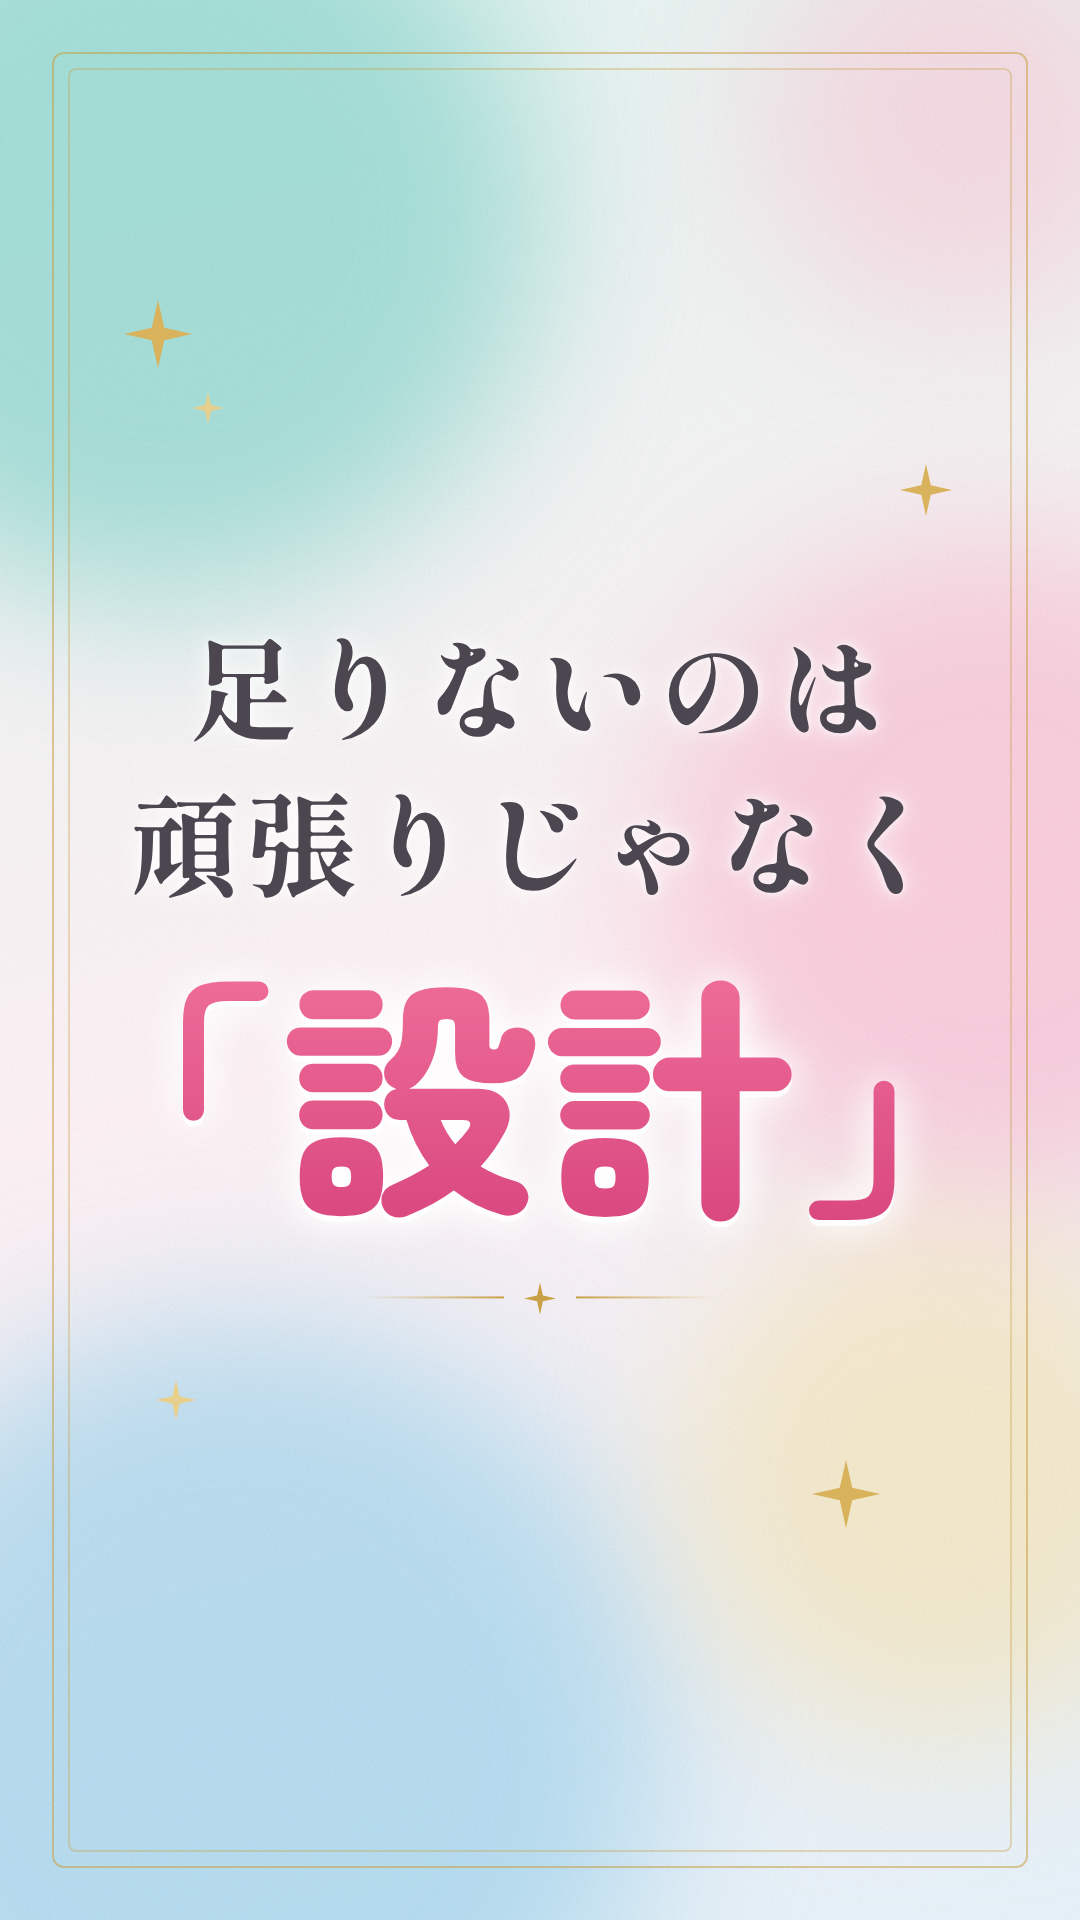
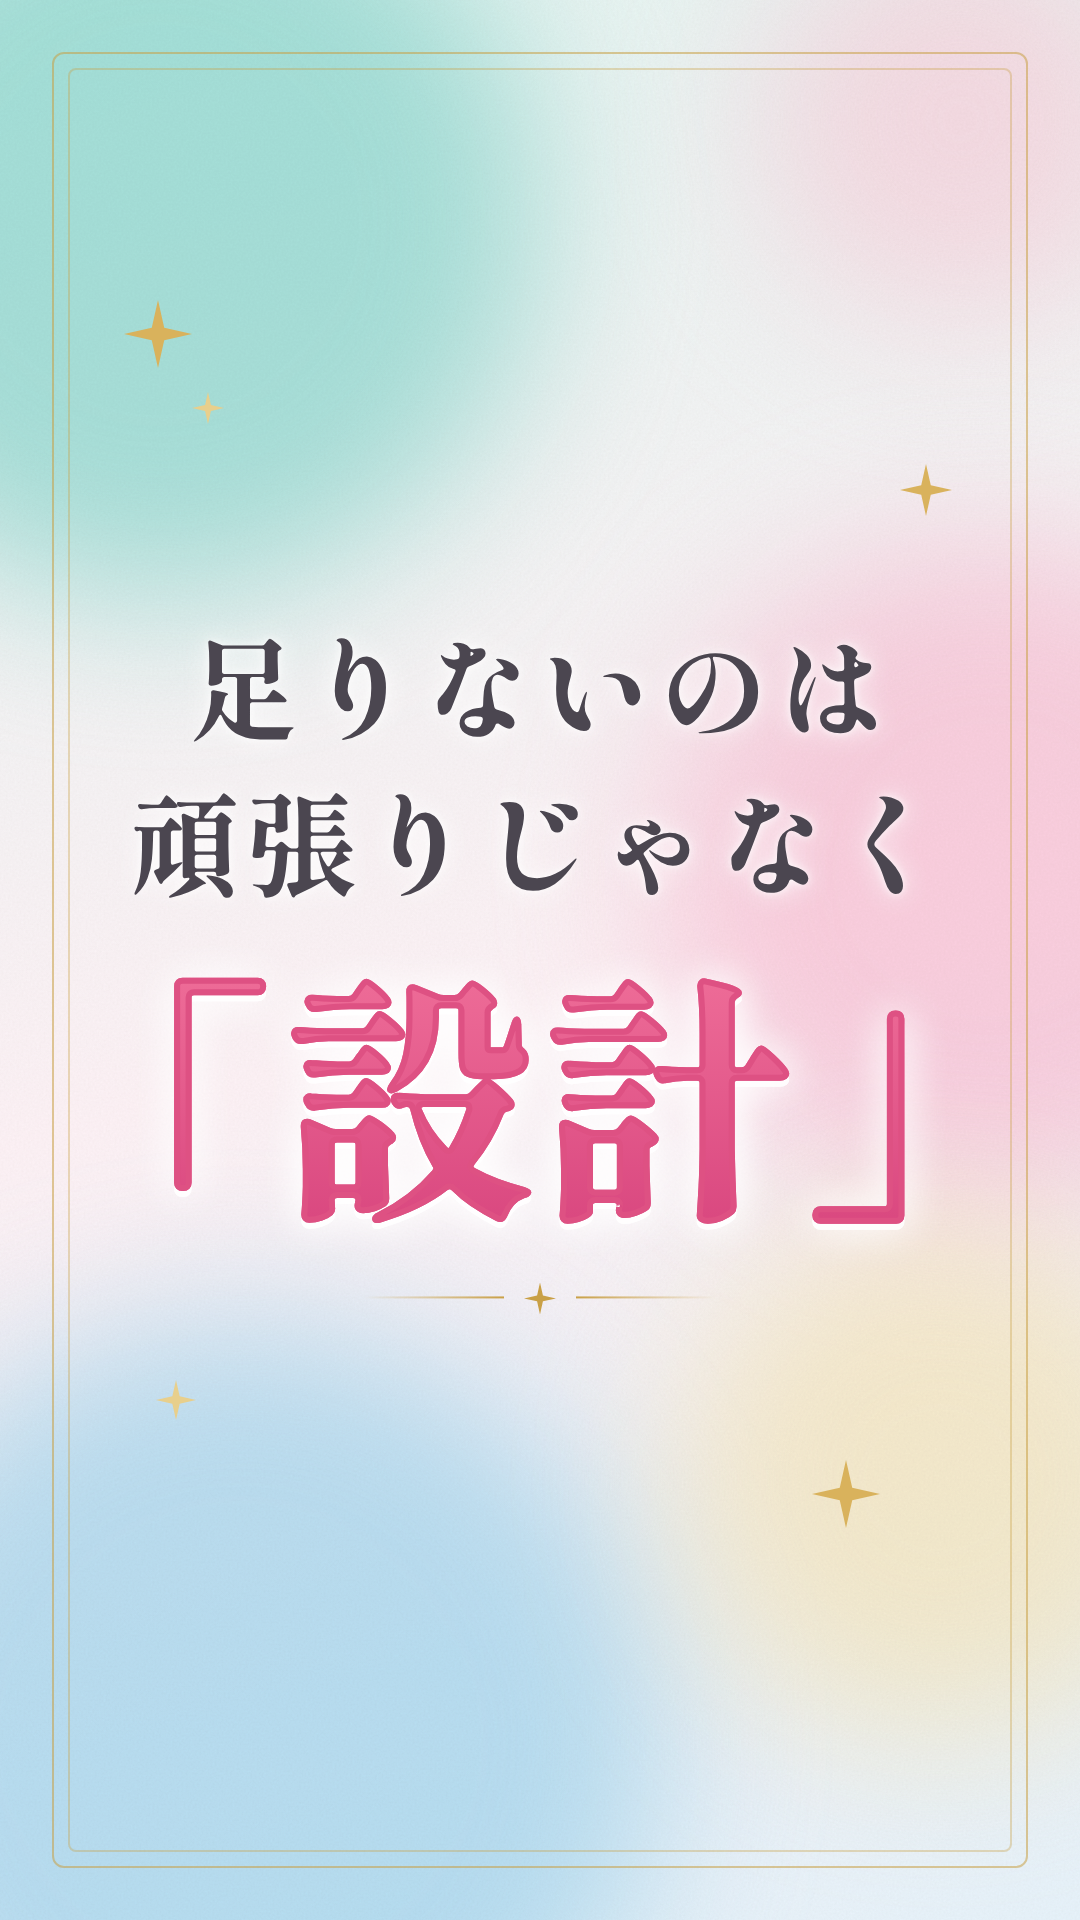
カバーの「設計」を太い明朝体に変更
Claude-Session: https://claude.ai/code/session_01KByPw2pmmrSZ9G6xsNvehu

diff --git a/covers/reel-cover-01.html b/covers/reel-cover-01.html
@@ -23,7 +23,7 @@
   .txt{position:absolute;left:0;right:0;top:50%;transform:translateY(-50%)}
   .l1,.l2{font-size:56px;line-height:1.4;letter-spacing:.05em;
     text-shadow:0 0 14px rgba(255,255,255,.95),0 0 4px rgba(255,255,255,.9)}
-  .l3{margin-top:14px;font-family:'Zen Maru Gothic','IPAGothic',sans-serif;font-weight:900;
+  .l3{margin-top:14px;font-family:'Shippori Mincho B1','IPAMincho',serif;font-weight:800;-webkit-text-stroke:3px #de5183;
     font-size:128px;line-height:1.1;letter-spacing:.01em;
     background:linear-gradient(180deg,#f0709a 0%,#d9477f 100%);-webkit-background-clip:text;background-clip:text;color:transparent;
     filter:drop-shadow(0 0 10px rgba(255,255,255,.95)) drop-shadow(0 3px 0 rgba(255,255,255,.9))}
